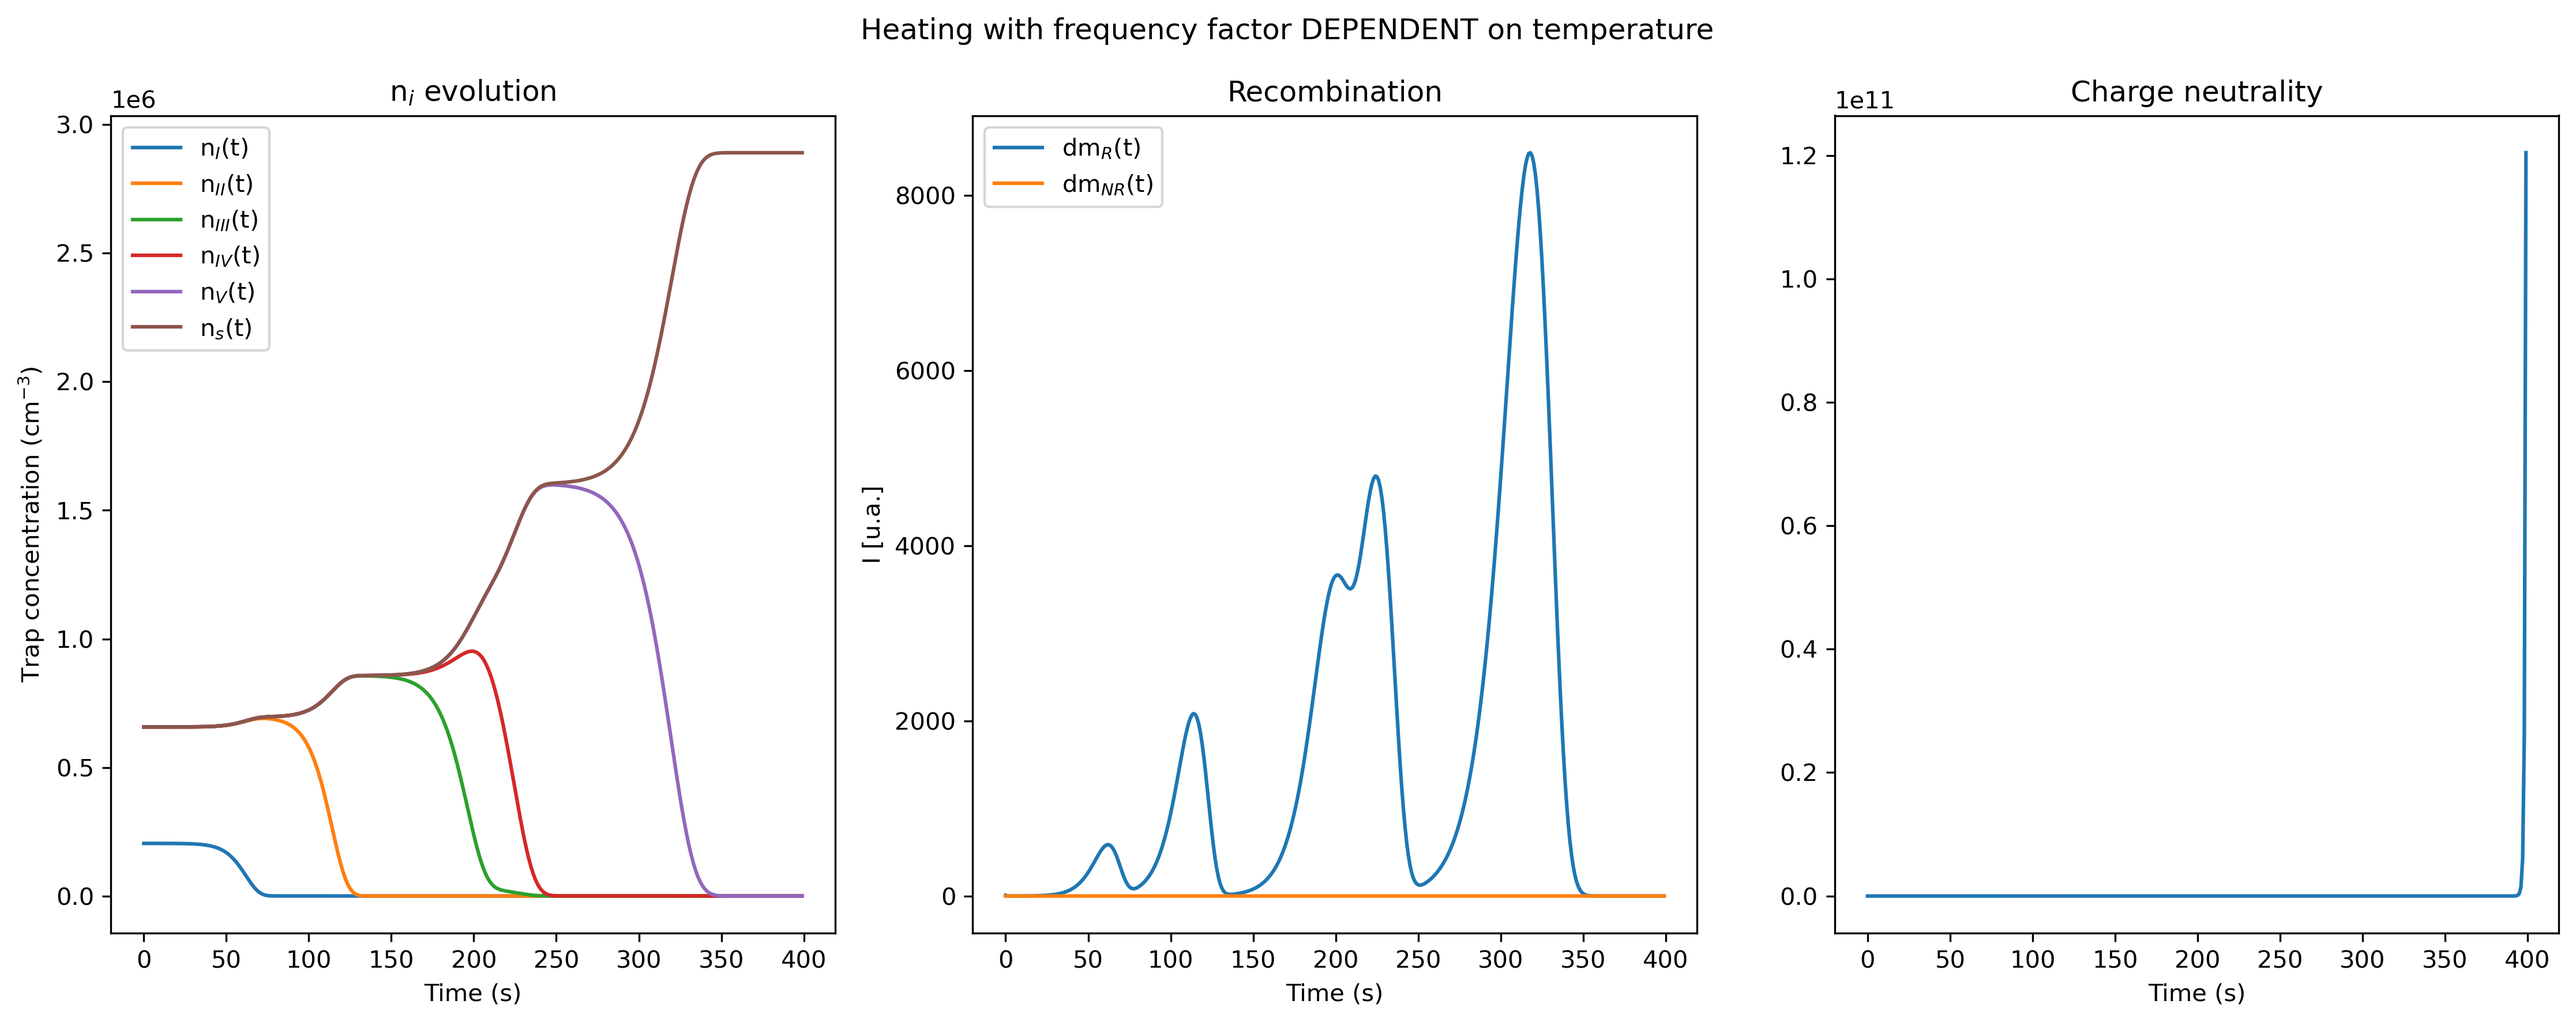
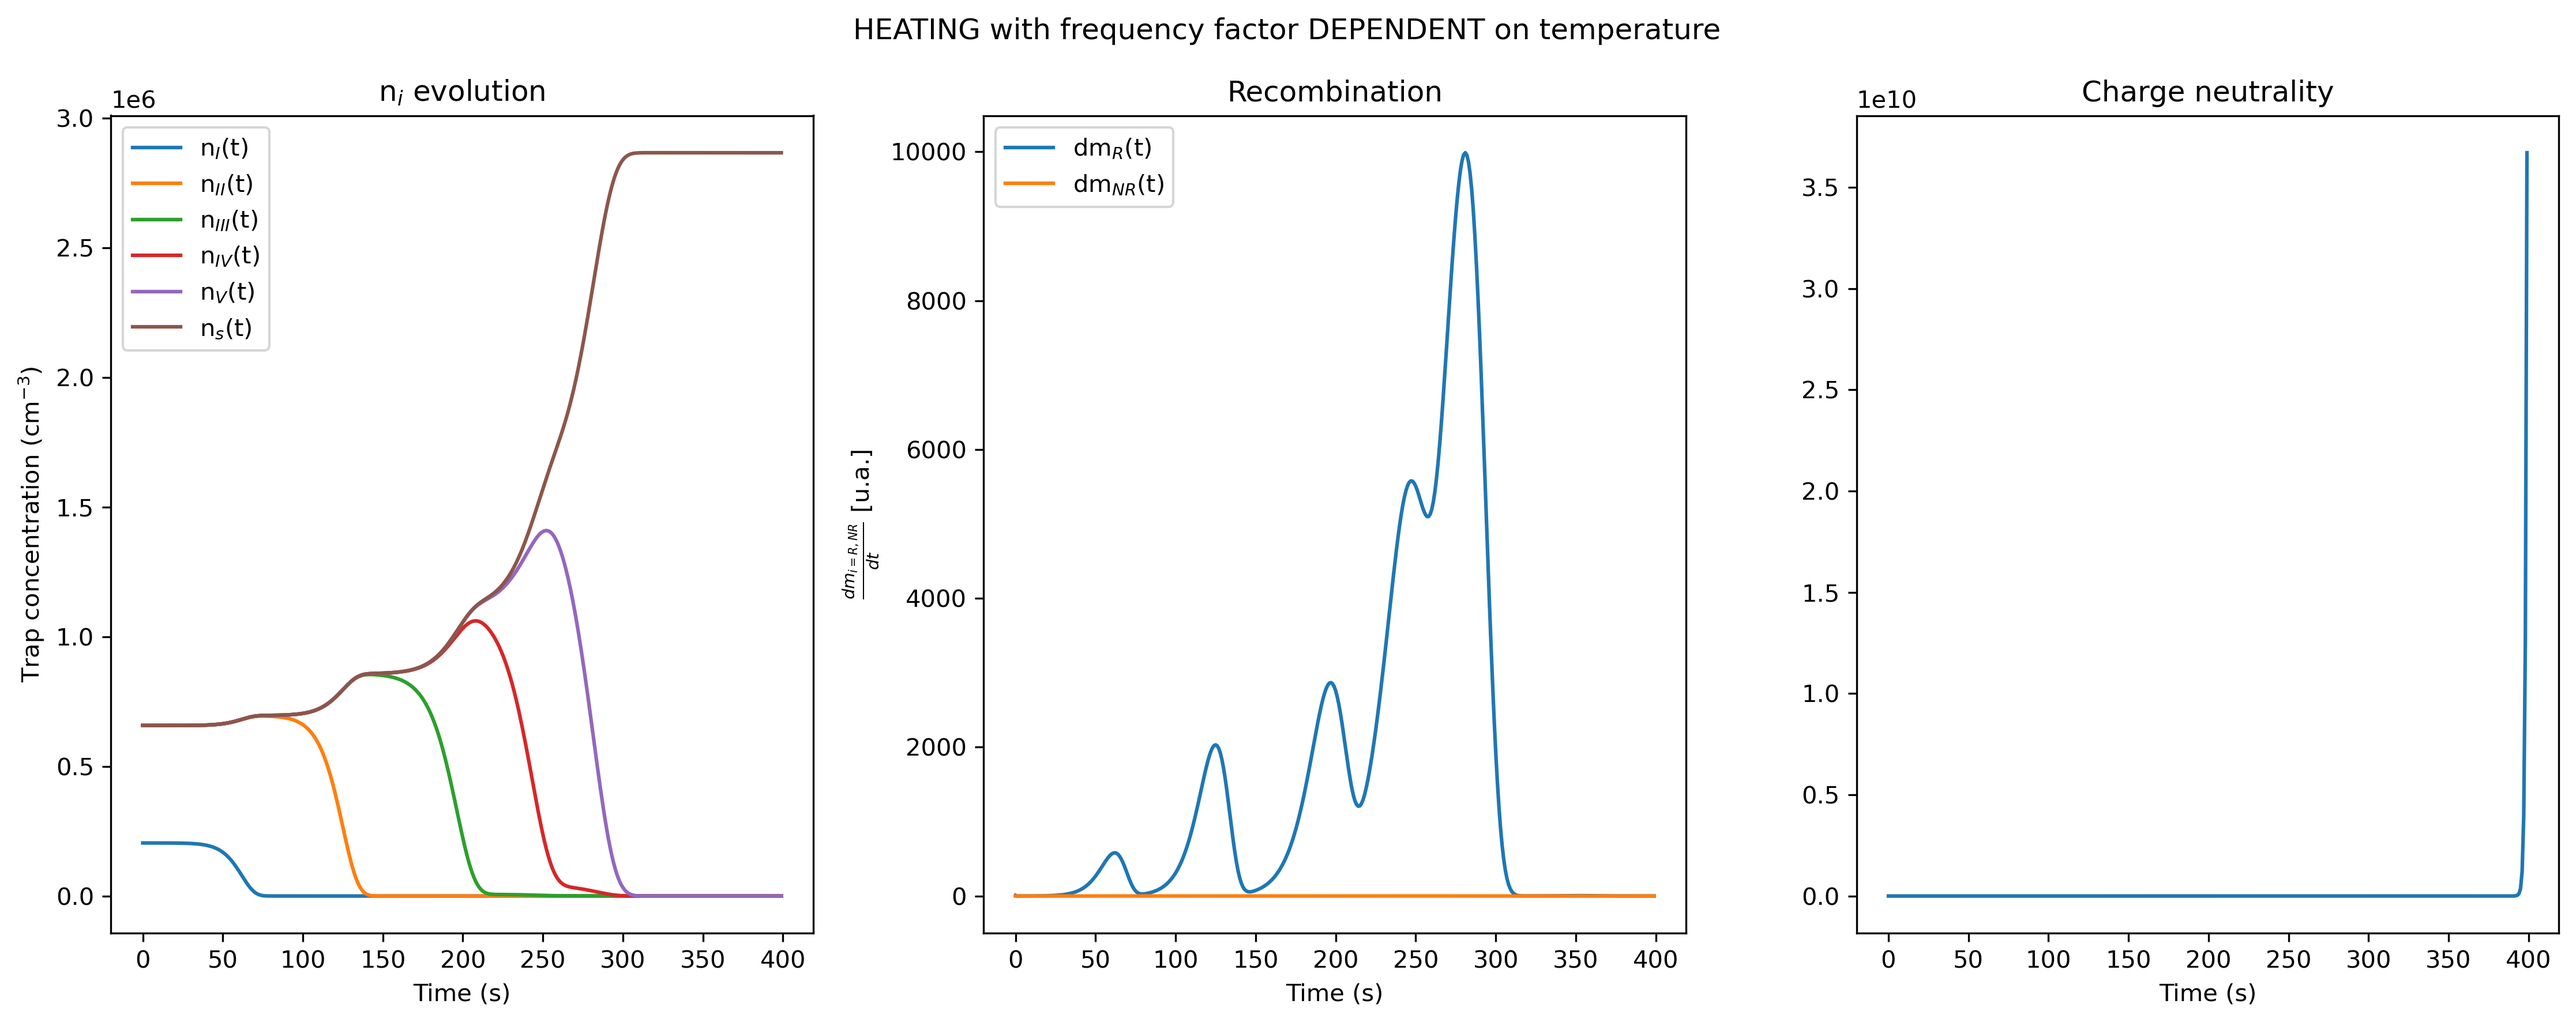
Fix of the energy parameters

diff --git a/Functions/plotting.py b/Functions/plotting.py
@@ -42,8 +42,8 @@ def plot_results(odeint_solution, save_path, title, x_axis, value):
     plt.tight_layout()
     
     # Saving the results
-    #plt.savefig(save_path + title + '.png', dpi=300, bbox_inches='tight')
-    plt.show()
+    plt.savefig(save_path + title + '.png', dpi=300, bbox_inches='tight')
+    #plt.show()
     
 def plot_glowcurve(odeint_solution, save_path, title, x_axis, value):
     # Unpack the variables
@@ -85,5 +85,5 @@ def plot_glowcurve(odeint_solution, save_path, title, x_axis, value):
     plt.tight_layout()
     
     # Saving the results
-    #plt.savefig(save_path + title + '.png', dpi=300, bbox_inches='tight')
+    plt.savefig(save_path + title + '.png', dpi=300, bbox_inches='tight')
     plt.show()

diff --git a/simulations.py b/simulations.py
@@ -22,16 +22,17 @@ from Functions.plotting import plot_results
 
 # Change this to the function you want to use
 FunctionUsed = diff_eqs_freqfactor
-GraphTitle = ' with frequency factor dependent on temperature'
+GraphTitle = ' with frequency factor DEPENDENT on temperature'
 
 # Coment this line if you want to keep the results from last run
+'''
 results_folder = 'Results'
 for file_path in glob.glob(os.path.join(results_folder, '*.png')):
     try:
         os.remove(file_path)
     except Exception as e:
         print(f"Could not delete {file_path}: {e}")
-
+'''
 #-------------------------------------------------------------------------
 #-------------------------------------------------------------------------
 
